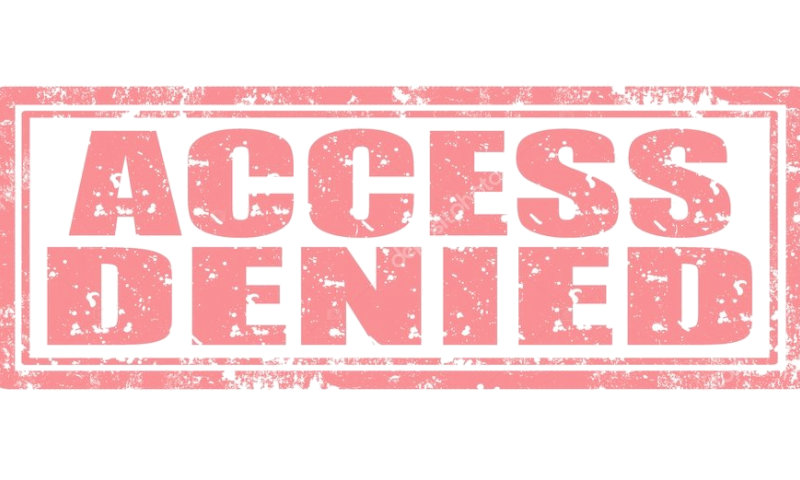
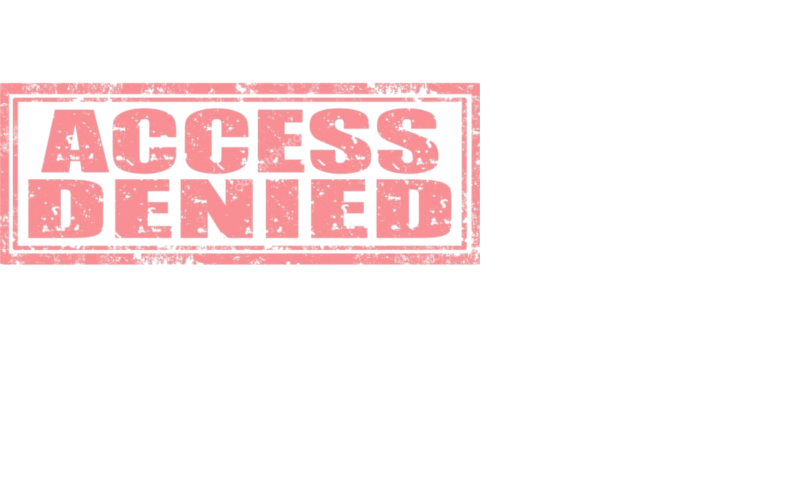
changed to portrait

diff --git a/css/style.css b/css/style.css
@@ -13,11 +13,15 @@ html, body {
 
 }
 .normal {background-image: url('../Silver_Spur.png');
+		background-position: 0px 0px;
 		background-size: auto;
+		background-repeat: no-repeat;
 		}
 .denied {background-image: url('../denied.png');
+		background-position: 0px 0px;
 		background-size: auto;
-		}
+		background-repeat: no-repeat;
+		} 
 
 .rotate {
   display: none;
@@ -76,7 +80,7 @@ html, body {
   margin: 0 8%;
 }
 .keypadwrapper .keypad .content div {
-  width: 7em;
+  width: 4em;
   height: 4em;
   text-align: center;
   border-radius: 3px;

diff --git a/js/index.js b/js/index.js
@@ -60,7 +60,7 @@ $(function () {
 		}else{
 			html.setAttribute('class', 'normal');
 			document.body.style.backgroundColor = "rgba(130, 130, 130, .1)";
-		}
+		} 
 		
 	});
 		document.body.style.backgroundColor = "rgba(130, 130, 130, .1)";

diff --git a/index.html b/index.html
@@ -33,7 +33,7 @@
       </div>
       <div class="content">
         <div>
-          <span class="number">2</span>
+          <span class="number">2</span> 
           <span>ABC</span>
         </div>
       </div>
